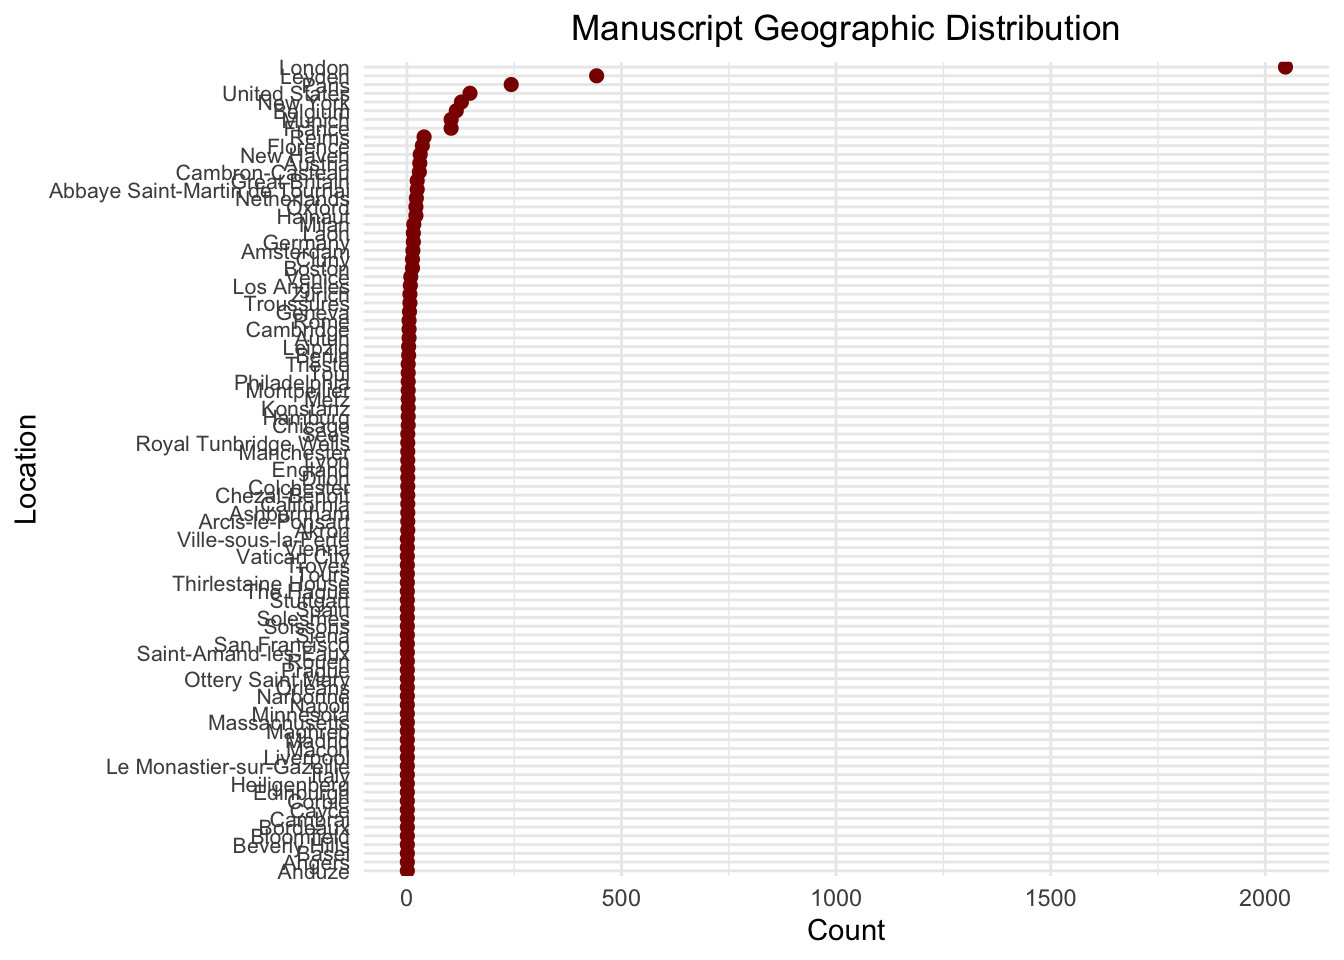
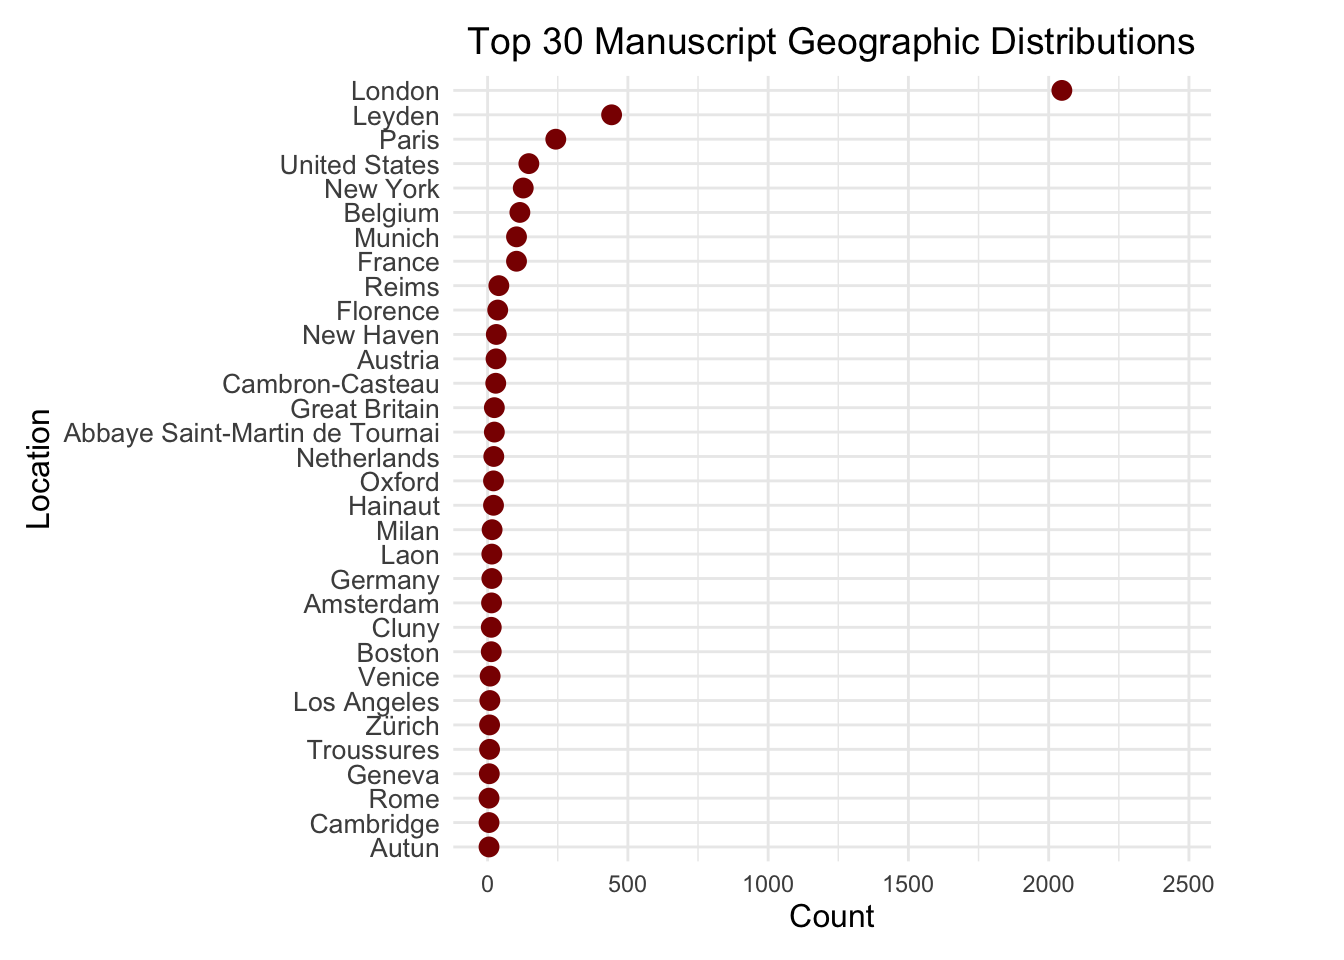
Final commit

Changed region(s): [[0.0, 0.0, 1.0, 1.0]]

diff --git a/docs/results.html b/docs/results.html
@@ -404,18 +404,25 @@ Attaching package: 'lubridate'</code></pre>
 <span id="cb16-3"><a href="#cb16-3" aria-hidden="true" tabindex="-1"></a><span class="fu">filter</span>(<span class="sc">!</span><span class="fu">is.na</span>(place_label)) <span class="sc">|&gt;</span></span>
 <span id="cb16-4"><a href="#cb16-4" aria-hidden="true" tabindex="-1"></a><span class="fu">arrange</span>(<span class="fu">desc</span>(n))</span>
 <span id="cb16-5"><a href="#cb16-5" aria-hidden="true" tabindex="-1"></a></span>
-<span id="cb16-6"><a href="#cb16-6" aria-hidden="true" tabindex="-1"></a><span class="fu">ggplot</span>(location_distribution, <span class="fu">aes</span>(<span class="at">x =</span> n, <span class="at">y =</span> <span class="fu">reorder</span>(place_label, n))) <span class="sc">+</span></span>
-<span id="cb16-7"><a href="#cb16-7" aria-hidden="true" tabindex="-1"></a><span class="fu">geom_point</span>(<span class="at">color =</span> <span class="st">"darkred"</span>, <span class="at">size =</span> <span class="dv">2</span>) <span class="sc">+</span></span>
-<span id="cb16-8"><a href="#cb16-8" aria-hidden="true" tabindex="-1"></a><span class="fu">labs</span>(</span>
-<span id="cb16-9"><a href="#cb16-9" aria-hidden="true" tabindex="-1"></a><span class="at">title =</span> <span class="st">"Manuscript Geographic Distribution"</span>,</span>
-<span id="cb16-10"><a href="#cb16-10" aria-hidden="true" tabindex="-1"></a><span class="at">x =</span> <span class="st">"Count"</span>,</span>
-<span id="cb16-11"><a href="#cb16-11" aria-hidden="true" tabindex="-1"></a><span class="at">y =</span> <span class="st">"Location"</span></span>
-<span id="cb16-12"><a href="#cb16-12" aria-hidden="true" tabindex="-1"></a>) <span class="sc">+</span></span>
-<span id="cb16-13"><a href="#cb16-13" aria-hidden="true" tabindex="-1"></a><span class="fu">theme_minimal</span>() <span class="sc">+</span></span>
-<span id="cb16-14"><a href="#cb16-14" aria-hidden="true" tabindex="-1"></a><span class="fu">theme</span>(</span>
-<span id="cb16-15"><a href="#cb16-15" aria-hidden="true" tabindex="-1"></a><span class="at">plot.title =</span> <span class="fu">element_text</span>(<span class="at">hjust =</span> <span class="fl">0.5</span>),</span>
-<span id="cb16-16"><a href="#cb16-16" aria-hidden="true" tabindex="-1"></a><span class="at">axis.text.y =</span> <span class="fu">element_text</span>(<span class="at">size =</span> <span class="dv">8</span>)</span>
-<span id="cb16-17"><a href="#cb16-17" aria-hidden="true" tabindex="-1"></a>)</span></code><button title="Copy to Clipboard" class="code-copy-button"><i class="bi"></i></button></pre></div>
+<span id="cb16-6"><a href="#cb16-6" aria-hidden="true" tabindex="-1"></a>top_location_distribution <span class="ot">&lt;-</span> location_distribution <span class="sc">|&gt;</span></span>
+<span id="cb16-7"><a href="#cb16-7" aria-hidden="true" tabindex="-1"></a>  <span class="fu">slice_max</span>(n, <span class="at">n =</span> <span class="dv">30</span>)</span>
+<span id="cb16-8"><a href="#cb16-8" aria-hidden="true" tabindex="-1"></a></span>
+<span id="cb16-9"><a href="#cb16-9" aria-hidden="true" tabindex="-1"></a><span class="fu">ggplot</span>(top_location_distribution, <span class="fu">aes</span>(<span class="at">x =</span> n, <span class="at">y =</span> <span class="fu">reorder</span>(place_label, n))) <span class="sc">+</span></span>
+<span id="cb16-10"><a href="#cb16-10" aria-hidden="true" tabindex="-1"></a>  <span class="fu">geom_point</span>(<span class="at">color =</span> <span class="st">"darkred"</span>, <span class="at">size =</span> <span class="dv">3</span>) <span class="sc">+</span> </span>
+<span id="cb16-11"><a href="#cb16-11" aria-hidden="true" tabindex="-1"></a></span>
+<span id="cb16-12"><a href="#cb16-12" aria-hidden="true" tabindex="-1"></a>  <span class="fu">labs</span>(</span>
+<span id="cb16-13"><a href="#cb16-13" aria-hidden="true" tabindex="-1"></a>    <span class="at">title =</span> <span class="st">"Top 30 Manuscript Geographic Distributions"</span>,</span>
+<span id="cb16-14"><a href="#cb16-14" aria-hidden="true" tabindex="-1"></a>    <span class="at">x =</span> <span class="st">"Count"</span>,</span>
+<span id="cb16-15"><a href="#cb16-15" aria-hidden="true" tabindex="-1"></a>    <span class="at">y =</span> <span class="st">"Location"</span></span>
+<span id="cb16-16"><a href="#cb16-16" aria-hidden="true" tabindex="-1"></a>  ) <span class="sc">+</span></span>
+<span id="cb16-17"><a href="#cb16-17" aria-hidden="true" tabindex="-1"></a>  <span class="fu">theme_minimal</span>() <span class="sc">+</span></span>
+<span id="cb16-18"><a href="#cb16-18" aria-hidden="true" tabindex="-1"></a>  <span class="fu">theme</span>(</span>
+<span id="cb16-19"><a href="#cb16-19" aria-hidden="true" tabindex="-1"></a>    <span class="at">plot.title =</span> <span class="fu">element_text</span>(<span class="at">hjust =</span> <span class="fl">0.5</span>, <span class="at">size =</span> <span class="dv">14</span>), </span>
+<span id="cb16-20"><a href="#cb16-20" aria-hidden="true" tabindex="-1"></a>    <span class="at">axis.text.y =</span> <span class="fu">element_text</span>(<span class="at">size =</span> <span class="dv">10</span>), </span>
+<span id="cb16-21"><a href="#cb16-21" aria-hidden="true" tabindex="-1"></a>    <span class="at">axis.title =</span> <span class="fu">element_text</span>(<span class="at">size =</span> <span class="dv">12</span>), </span>
+<span id="cb16-22"><a href="#cb16-22" aria-hidden="true" tabindex="-1"></a>    <span class="at">plot.margin =</span> <span class="fu">margin</span>(<span class="at">t =</span> <span class="dv">10</span>, <span class="at">r =</span> <span class="dv">50</span>, <span class="at">b =</span> <span class="dv">10</span>, <span class="at">l =</span> <span class="dv">10</span>)</span>
+<span id="cb16-23"><a href="#cb16-23" aria-hidden="true" tabindex="-1"></a>  ) <span class="sc">+</span></span>
+<span id="cb16-24"><a href="#cb16-24" aria-hidden="true" tabindex="-1"></a>  <span class="fu">xlim</span>(<span class="dv">0</span>, <span class="fu">max</span>(top_location_distribution<span class="sc">$</span>n) <span class="sc">*</span> <span class="fl">1.2</span>)</span></code><button title="Copy to Clipboard" class="code-copy-button"><i class="bi"></i></button></pre></div>
 </details>
 <div class="cell-output-display">
 <div>
@@ -425,7 +432,7 @@ Attaching package: 'lubridate'</code></pre>
 </div>
 </div>
 </div>
-<p>The Cleveland dot plot reveals a highly uneven distribution of manuscripts across locations, with a few major hubs like London and other prominent cities showing significantly higher counts, while the majority of locations have few or no manuscripts, indicating a long tail distribution and underrepresentation. Locations with the highest counts likely serve as key centers for manuscript collection, curation, or digitization, while the clustering of most locations near zero highlights potential biases in data collection or historical disparities, such as wealthier regions having more resources for preservation. The lack of mid-range clustering suggests concentration in either high-volume hubs or sparsely represented areas. The Cleveland dot plot is an effective choice for visualizing this distribution, as it avoids the clutter that would result from using a bar plot given the numerous categories.</p>
+<p>The visualization highlights the centralization of manuscript collections in a few key locations, with London and Leyden leading significantly, followed by Paris and the United States, reflecting their historical importance and institutional focus on manuscript preservation. The sharp drop in counts after the top locations emphasizes the dominance of a few hubs, while the presence of U.S. cities like New York and Boston points to modern collection and digitization efforts. European cities such as Florence, Munich, Oxford, and Cambridge underscore their cultural and historical prominence during the medieval and Renaissance periods. The long-tail distribution reveals many locations with relatively small manuscript counts, indicating underrepresentation in preservation and cataloging efforts. The use of dark red dots effectively visualizes the distribution, while careful scaling and inclusion of the top 30 locations provide a clear and balanced view of major contributors and broader geographic representation.</p>
 </section>
 <section id="historical-trends-in-manuscript-preservation" class="level2" data-number="3.4">
 <h2 data-number="3.4" class="anchored" data-anchor-id="historical-trends-in-manuscript-preservation"><span class="header-section-number">3.4</span> Historical Trends in Manuscript Preservation</h2>
@@ -644,7 +651,7 @@ Attaching package: 'lubridate'</code></pre>
 <pre><code>Passing 93 addresses to the Nominatim single address geocoder</code></pre>
 </div>
 <div class="cell-output cell-output-stderr">
-<pre><code>Query completed in: 93.7 seconds</code></pre>
+<pre><code>Query completed in: 93.6 seconds</code></pre>
 </div>
 <details class="code-fold">
 <summary>Code</summary>
@@ -696,25 +703,25 @@ Attaching package: 'lubridate'</code></pre>
 <div class="sourceCode cell-code" id="cb28"><pre class="sourceCode r code-with-copy"><code class="sourceCode r"><span id="cb28-1"><a href="#cb28-1" aria-hidden="true" tabindex="-1"></a><span class="fu">library</span>(ggplot2)</span>
 <span id="cb28-2"><a href="#cb28-2" aria-hidden="true" tabindex="-1"></a><span class="fu">library</span>(dplyr)</span>
 <span id="cb28-3"><a href="#cb28-3" aria-hidden="true" tabindex="-1"></a></span>
-<span id="cb28-4"><a href="#cb28-4" aria-hidden="true" tabindex="-1"></a>data <span class="ot">&lt;-</span> data <span class="sc">%&gt;%</span></span>
+<span id="cb28-4"><a href="#cb28-4" aria-hidden="true" tabindex="-1"></a>data <span class="ot">&lt;-</span> data <span class="sc">|&gt;</span></span>
 <span id="cb28-5"><a href="#cb28-5" aria-hidden="true" tabindex="-1"></a>  <span class="fu">mutate</span>(<span class="at">end =</span> <span class="fu">as.Date</span>(end, <span class="at">format =</span> <span class="st">"%Y-%m-%d"</span>))</span>
 <span id="cb28-6"><a href="#cb28-6" aria-hidden="true" tabindex="-1"></a></span>
-<span id="cb28-7"><a href="#cb28-7" aria-hidden="true" tabindex="-1"></a>data <span class="ot">&lt;-</span> data <span class="sc">%&gt;%</span></span>
+<span id="cb28-7"><a href="#cb28-7" aria-hidden="true" tabindex="-1"></a>data <span class="ot">&lt;-</span> data <span class="sc">|&gt;</span></span>
 <span id="cb28-8"><a href="#cb28-8" aria-hidden="true" tabindex="-1"></a>  <span class="fu">mutate</span>(<span class="at">year =</span> <span class="fu">as.numeric</span>(<span class="fu">format</span>(end, <span class="st">"%Y"</span>)),</span>
 <span id="cb28-9"><a href="#cb28-9" aria-hidden="true" tabindex="-1"></a>         <span class="at">century =</span> <span class="fu">floor</span>((year <span class="sc">-</span> <span class="dv">1</span>) <span class="sc">/</span> <span class="dv">100</span>) <span class="sc">+</span> <span class="dv">1</span>)</span>
 <span id="cb28-10"><a href="#cb28-10" aria-hidden="true" tabindex="-1"></a></span>
-<span id="cb28-11"><a href="#cb28-11" aria-hidden="true" tabindex="-1"></a>heatmap_data <span class="ot">&lt;-</span> data <span class="sc">%&gt;%</span></span>
-<span id="cb28-12"><a href="#cb28-12" aria-hidden="true" tabindex="-1"></a>  <span class="fu">count</span>(place_label, century) <span class="sc">%&gt;%</span></span>
+<span id="cb28-11"><a href="#cb28-11" aria-hidden="true" tabindex="-1"></a>heatmap_data <span class="ot">&lt;-</span> data <span class="sc">|&gt;</span></span>
+<span id="cb28-12"><a href="#cb28-12" aria-hidden="true" tabindex="-1"></a>  <span class="fu">count</span>(place_label, century) <span class="sc">|&gt;</span></span>
 <span id="cb28-13"><a href="#cb28-13" aria-hidden="true" tabindex="-1"></a>  <span class="fu">filter</span>(<span class="sc">!</span><span class="fu">is.na</span>(place_label) <span class="sc">&amp;</span> <span class="sc">!</span><span class="fu">is.na</span>(century))</span>
 <span id="cb28-14"><a href="#cb28-14" aria-hidden="true" tabindex="-1"></a></span>
-<span id="cb28-15"><a href="#cb28-15" aria-hidden="true" tabindex="-1"></a>top_locations <span class="ot">&lt;-</span> heatmap_data <span class="sc">%&gt;%</span></span>
-<span id="cb28-16"><a href="#cb28-16" aria-hidden="true" tabindex="-1"></a>  <span class="fu">group_by</span>(place_label) <span class="sc">%&gt;%</span></span>
-<span id="cb28-17"><a href="#cb28-17" aria-hidden="true" tabindex="-1"></a>  <span class="fu">summarise</span>(<span class="at">total_count =</span> <span class="fu">sum</span>(n)) <span class="sc">%&gt;%</span></span>
-<span id="cb28-18"><a href="#cb28-18" aria-hidden="true" tabindex="-1"></a>  <span class="fu">arrange</span>(<span class="fu">desc</span>(total_count)) <span class="sc">%&gt;%</span></span>
-<span id="cb28-19"><a href="#cb28-19" aria-hidden="true" tabindex="-1"></a>  <span class="fu">slice_head</span>(<span class="at">n =</span> <span class="dv">20</span>) <span class="sc">%&gt;%</span></span>
+<span id="cb28-15"><a href="#cb28-15" aria-hidden="true" tabindex="-1"></a>top_locations <span class="ot">&lt;-</span> heatmap_data <span class="sc">|&gt;</span></span>
+<span id="cb28-16"><a href="#cb28-16" aria-hidden="true" tabindex="-1"></a>  <span class="fu">group_by</span>(place_label) <span class="sc">|&gt;</span></span>
+<span id="cb28-17"><a href="#cb28-17" aria-hidden="true" tabindex="-1"></a>  <span class="fu">summarise</span>(<span class="at">total_count =</span> <span class="fu">sum</span>(n)) <span class="sc">|&gt;</span></span>
+<span id="cb28-18"><a href="#cb28-18" aria-hidden="true" tabindex="-1"></a>  <span class="fu">arrange</span>(<span class="fu">desc</span>(total_count)) <span class="sc">|&gt;</span></span>
+<span id="cb28-19"><a href="#cb28-19" aria-hidden="true" tabindex="-1"></a>  <span class="fu">slice_head</span>(<span class="at">n =</span> <span class="dv">20</span>) <span class="sc">|&gt;</span></span>
 <span id="cb28-20"><a href="#cb28-20" aria-hidden="true" tabindex="-1"></a>  <span class="fu">pull</span>(place_label)</span>
 <span id="cb28-21"><a href="#cb28-21" aria-hidden="true" tabindex="-1"></a></span>
-<span id="cb28-22"><a href="#cb28-22" aria-hidden="true" tabindex="-1"></a>heatmap_data <span class="ot">&lt;-</span> heatmap_data <span class="sc">%&gt;%</span></span>
+<span id="cb28-22"><a href="#cb28-22" aria-hidden="true" tabindex="-1"></a>heatmap_data <span class="ot">&lt;-</span> heatmap_data <span class="sc">|&gt;</span></span>
 <span id="cb28-23"><a href="#cb28-23" aria-hidden="true" tabindex="-1"></a>  <span class="fu">filter</span>(place_label <span class="sc">%in%</span> top_locations)</span>
 <span id="cb28-24"><a href="#cb28-24" aria-hidden="true" tabindex="-1"></a></span>
 <span id="cb28-25"><a href="#cb28-25" aria-hidden="true" tabindex="-1"></a><span class="fu">ggplot</span>(heatmap_data, <span class="fu">aes</span>(<span class="at">x =</span> century, <span class="at">y =</span> <span class="fu">reorder</span>(place_label, <span class="sc">-</span>n), <span class="at">fill =</span> n)) <span class="sc">+</span></span>

diff --git a/docs/d3graph.html b/docs/d3graph.html
@@ -145,13 +145,7 @@ ul.task-list li input[type="checkbox"] {
 <div id="quarto-sidebar-glass" class="quarto-sidebar-collapse-item" data-bs-toggle="collapse" data-bs-target=".quarto-sidebar-collapse-item"></div>
 <!-- margin-sidebar -->
     <div id="quarto-margin-sidebar" class="sidebar margin-sidebar">
-        <nav id="TOC" role="doc-toc" class="toc-active">
-    <h2 id="toc-title">Table of contents</h2>
-   
-  <ul>
-  <li><a href="#interactive-graph-with-cities" id="toc-interactive-graph-with-cities" class="nav-link active" data-scroll-target="#interactive-graph-with-cities"><span class="header-section-number">5</span> Interactive Graph with Cities</a></li>
-  </ul>
-<div class="toc-actions"><ul><li><a href="https://github.com/Abhitay/manuscript/edit/main/d3graph.qmd" class="toc-action"><i class="bi bi-github"></i>Edit this page</a></li><li><a href="https://github.com/Abhitay/manuscript/issues/new" class="toc-action"><i class="bi empty"></i>Report an issue</a></li></ul></div></nav>
+        
     </div>
 <!-- main -->
 <main class="content" id="quarto-document-content">
@@ -175,9 +169,6 @@ ul.task-list li input[type="checkbox"] {
 </header>
 
 
-<section id="interactive-graph-with-cities" class="level1" data-number="5">
-<h1 data-number="5"><span class="header-section-number">5</span> Interactive Graph with Cities</h1>
-<!-- Embed the D3.js visualization -->
 <style>
   * {
     font-family: sans-serif;
@@ -198,19 +189,15 @@ ul.task-list li input[type="checkbox"] {
     padding: 5px;
   }
 </style>
-<!-- Dropdown Menu and Map Container -->
 <div id="plot">
 <p><label for="countrySelect">Select a Country:</label> <select id="countrySelect"> <option value="All" selected="">All Countries</option> </select></p>
 </div>
-<!-- Load Required Libraries -->
 <script src="https://cdn.jsdelivr.net/npm/d3@7"></script>
 <script src="https://cdn.jsdelivr.net/npm/topojson@3"></script>
-<!-- Load the Custom Script -->
 <script src="scripts/myscript.js"></script>
 <p>This interactive map, created using D3.js, visualizes the global distribution of manuscripts across cities. Each orange circle represents a city, with its size proportional to the manuscript count. Users can explore the map by zooming, panning, or filtering cities by country using a dropdown menu. Hovering over a city reveals a tooltip displaying the city’s name, manuscript count, and geographic coordinates. The map is built on a Mercator projection, converting geographic data into a 2D visualization. This dynamic and engaging design helps users understand the spatial trends in manuscript collections, enabling deeper exploration of regions and patterns that would be difficult to grasp from static visuals.</p>
 
 
-</section>
 
 </main> <!-- /main -->
 <script id="quarto-html-after-body" type="application/javascript">
@@ -642,7 +629,7 @@ window.document.addEventListener("DOMContentLoaded", function (event) {
     </div>   
     <div class="nav-footer-center">
       &nbsp;
-    <div class="toc-actions d-sm-block d-md-none"><ul><li><a href="https://github.com/Abhitay/manuscript/edit/main/d3graph.qmd" class="toc-action"><i class="bi bi-github"></i>Edit this page</a></li><li><a href="https://github.com/Abhitay/manuscript/issues/new" class="toc-action"><i class="bi empty"></i>Report an issue</a></li></ul></div></div>
+    <div class="toc-actions"><ul><li><a href="https://github.com/Abhitay/manuscript/edit/main/d3graph.qmd" class="toc-action"><i class="bi bi-github"></i>Edit this page</a></li><li><a href="https://github.com/Abhitay/manuscript/issues/new" class="toc-action"><i class="bi empty"></i>Report an issue</a></li></ul></div></div>
     <div class="nav-footer-right">
 <p>This book was built with <a href="https://quarto.org/">Quarto</a>.</p>
 </div>
